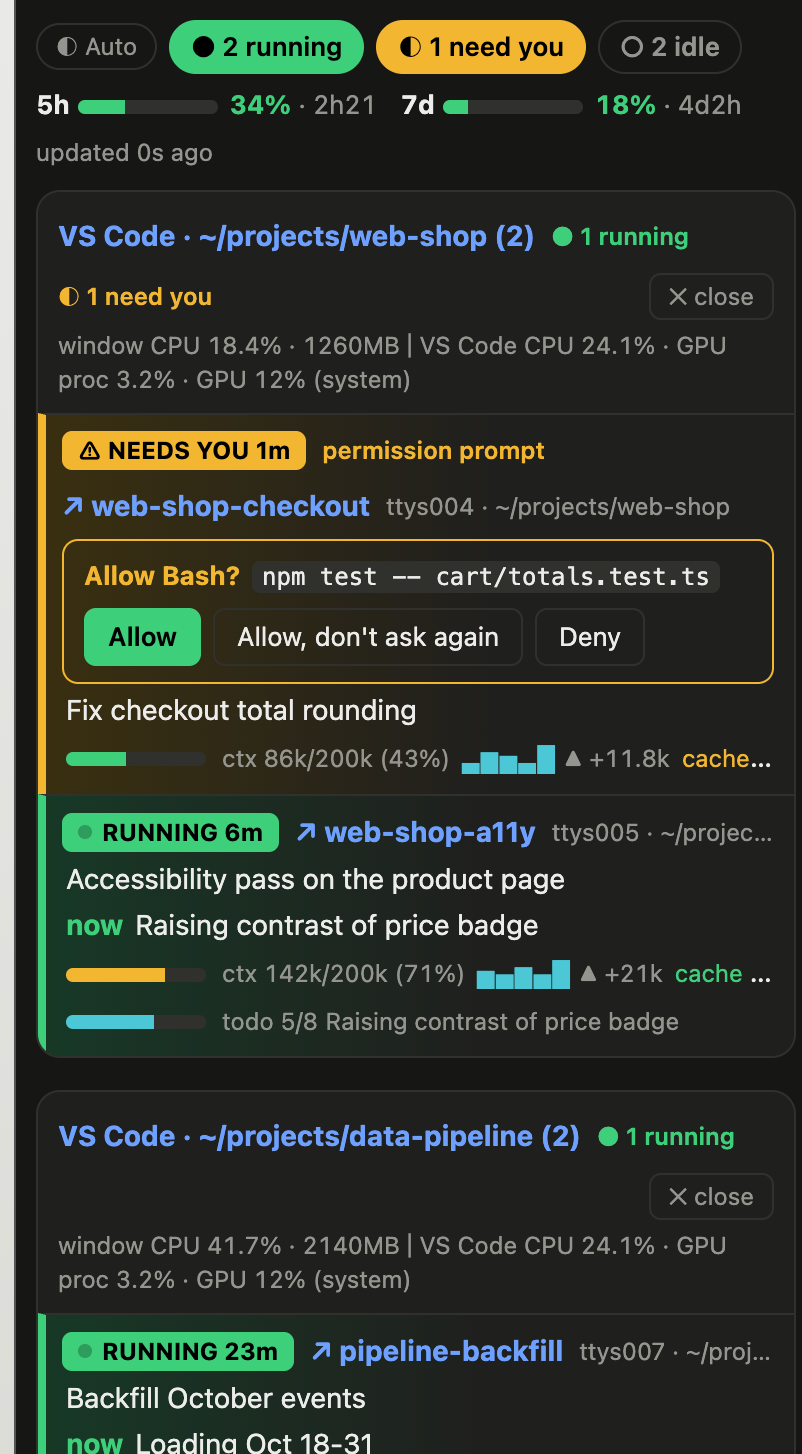
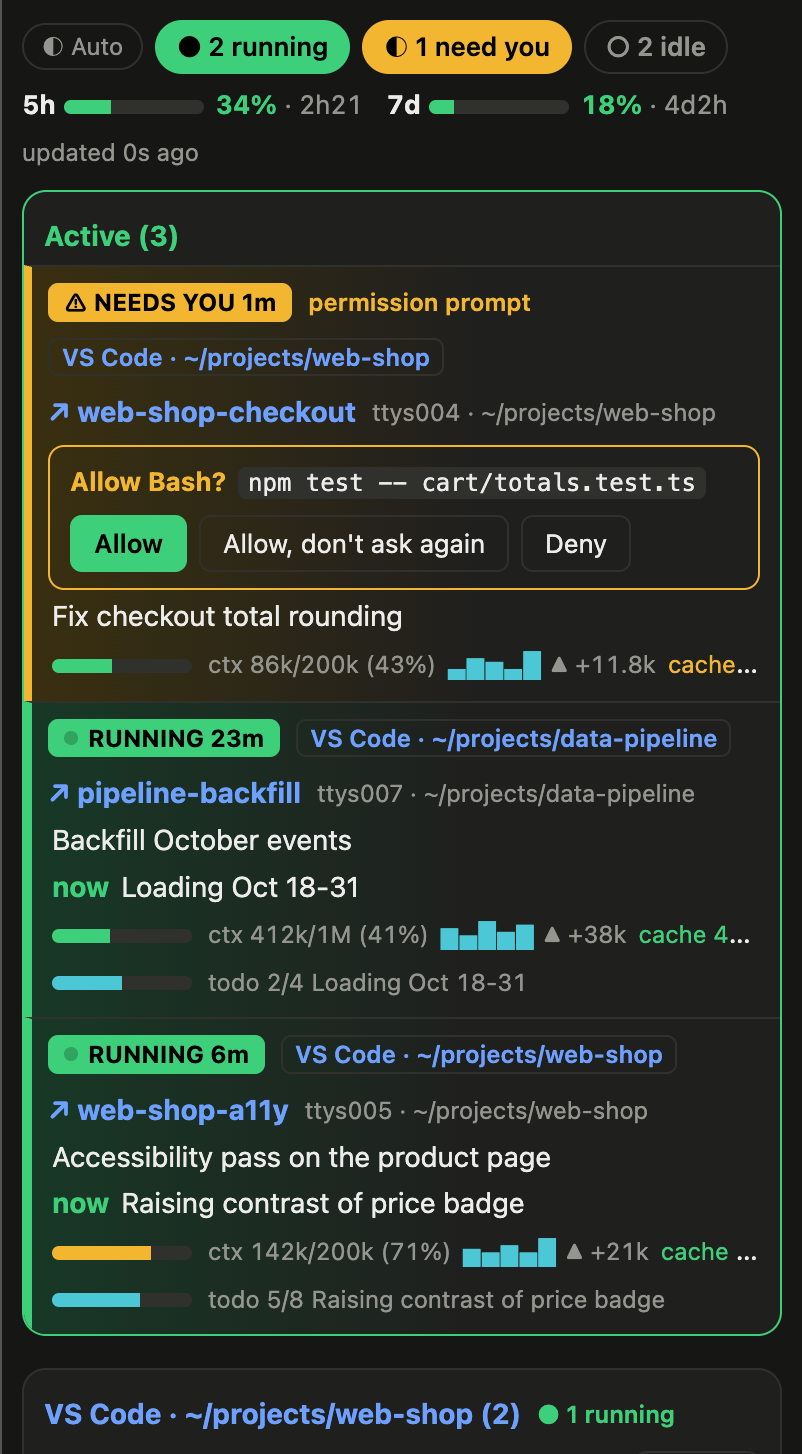
Pin running and waiting sessions in an Active section
The pane and the web page (and so the Chrome side panel) open with an
Active section: sessions that need you first, then running ones, longest
first, each tagged with its window. The window groups below keep their
CPU line and close button but list only idle sessions, with a note of how
many of theirs are pinned above. Screenshots and READMEs updated.

diff --git a/session-progress/hooks/register.tsx b/session-progress/hooks/register.tsx
@@ -143,6 +143,10 @@ function groupRows(list: SessionRow[]): Group[] {
 }
 
 const STATUS_RANK: Record<string, number> = { waiting: 0, busy: 1, idle: 2 }
+const isActive = (r: SessionRow) => r.status === 'busy' || r.status === 'waiting'
+// Where a session lives, for its row in the Active section.
+const whereOf = (r: SessionRow) =>
+  r.app === 'vscode' ? `VS Code · ${r.windowLabel ?? r.window}` : r.app === 'Apple_Terminal' ? 'Terminal' : r.app === 'other' ? 'terminal' : r.app
 
 // The arguments the web view shows for a call that waits on the person; never file contents.
 const PENDING_KEYS = ['command', 'file_path', 'url', 'pattern', 'query', 'prompt', 'skill', 'description', 'questions', 'plan']
@@ -224,6 +228,98 @@ export const register: Register = on => {
         <Text dimColor>{label}</Text>
       )
     const vscodeCount = list.filter(r => r.app === 'vscode').length
+    // Running and waiting sessions are pinned in one Active section on top (waiting
+    // first, longest first); the window groups below keep only the idle ones.
+    const active = list.filter(isActive).sort((a, b) => (STATUS_RANK[a.status] ?? 3) - (STATUS_RANK[b.status] ?? 3) || a.statusSince - b.statusSince)
+    const sessionRow = (r: SessionRow, where?: string) => {
+    const gutter = GUTTER[r.status]
+    const pad = gutter ? <Text color={gutter}>{'  ┃ '}</Text> : '    '
+    const active = r.status === 'busy' || r.status === 'waiting'
+    return (
+    <Box key={r.sessionId} flexDirection="column">
+      <Box key={`head-${r.sessionId}`} flexDirection="row">
+        <Text>
+          {gutter ? <Text color={gutter}>{'  ┃ '}</Text> : '  '}
+          {BADGE[r.status] ? (
+            <Text backgroundColor={gutter} color="black" bold>
+              {' '}{BADGE[r.status]} {span(now, r.statusSince)}{' '}
+            </Text>
+          ) : (
+            <Text color={STATUS_COLOR[r.status] ?? 'white'} dimColor>
+              {STATUS_ICON[r.status] ?? '?'} {r.status} {span(now, r.statusSince)}
+            </Text>
+          )}
+          {r.waitingFor ? <Text color="yellow" bold> {r.waitingFor}</Text> : ''}{' '}
+        </Text>
+        {r.app === 'vscode' ? (
+          <Button key={`open-${r.sessionId}`} plain label={`↗ ${r.name}`} dimColor={!active} hover={{ underline: true }} onPress={() => void vscodeAction($, 'focus', r)} />
+        ) : (
+          <Text bold={active} dimColor={!active}>{r.name}</Text>
+        )}
+        {where ? <Text color="blue"> [{where}]</Text> : ''}
+        <Text wrap="truncate" dimColor> {r.tty} · {r.cwd}</Text>
+      </Box>
+      {r.title && <Text wrap="truncate" dimColor={!active}>{pad}{r.title}</Text>}
+      {r.status === 'busy' && (r.todoActive || r.lastTool) && (
+        <Text wrap="truncate">
+          {pad}
+          <Text color="green" bold>now </Text>
+          {r.todoActive ?? r.lastTool}
+        </Text>
+      )}
+      {r.ctxTokens !== undefined && r.ctxMax !== undefined && (
+        <Text wrap="truncate">
+          {pad}
+          <Text color={ctxColor(r.ctxTokens / r.ctxMax)}>ctx {bar(Math.min(r.ctxTokens, r.ctxMax), r.ctxMax)}</Text>
+          <Text dimColor>
+            {' '}
+            {tokens(r.ctxTokens)}/{tokens(r.ctxMax)} ({Math.round((r.ctxTokens / r.ctxMax) * 100)}%)
+          </Text>
+          {r.ctxGrowth && r.ctxGrowth.length > 0 ? (
+            <Text>
+              {' '}
+              <Text color="cyan">{spark(r.ctxGrowth)}</Text>
+              <Text dimColor> {signed(r.ctxGrowth[r.ctxGrowth.length - 1] ?? 0)}</Text>
+            </Text>
+          ) : (
+            ''
+          )}
+          {r.cacheExpiresAt !== undefined ? (
+            r.cacheExpiresAt > now ? (
+              <Text>
+                <Text dimColor> │ </Text>
+                <Text color={r.cacheExpiresAt - now < 5 * 60_000 ? 'yellow' : 'green'}>cache {untilText(r.cacheExpiresAt - now)}</Text>
+              </Text>
+            ) : (
+              <Text dimColor> │ cache expired</Text>
+            )
+          ) : (
+            ''
+          )}
+        </Text>
+      )}
+      {r.todosTotal !== undefined && r.todosTotal > 0 && (
+        <Text wrap="truncate">
+          {pad}
+          <Text color="cyan">
+            {bar(r.todosDone ?? 0, r.todosTotal)} {r.todosDone}/{r.todosTotal}
+          </Text>
+          {r.todoActive ? <Text dimColor> {r.todoActive}</Text> : ''}
+        </Text>
+      )}
+      {r.lastPrompt && (
+        <Text wrap="truncate" dimColor>
+          {pad}› {r.lastPrompt}
+        </Text>
+      )}
+      {r.lastReply && (
+        <Text wrap="truncate" dimColor>
+          {pad}‹ {r.lastReply}
+        </Text>
+      )}
+    </Box>
+    )
+    }
 
     return (
       <Box flexDirection="column">
@@ -253,6 +349,12 @@ export const register: Register = on => {
           {vscodeCount} VS Code terminals running claude · updated {at ? ago(now, at) : '—'} ago
         </Text>
         {list.length === 0 && <Text dimColor>No running sessions found.</Text>}
+        {active.length > 0 && (
+          <Box key="active" flexDirection="column" marginTop={1}>
+            <Text bold color="green">▌Active ({active.length})</Text>
+            {active.map(r => sessionRow(r, whereOf(r)))}
+          </Box>
+        )}
         {groups.map(g => (
           <Box key={g.key} flexDirection="column" marginTop={1}>
             <Box key={`group-${g.key}`} flexDirection="row">
@@ -278,94 +380,10 @@ export const register: Register = on => {
                 {g.stats.gpuProcCpu}%{g.stats.gpuUtil !== undefined ? ` · GPU ${g.stats.gpuUtil}% (system)` : ''}
               </Text>
             )}
-            {g.rows.map(r => {
-              const gutter = GUTTER[r.status]
-              const pad = gutter ? <Text color={gutter}>{'  ┃ '}</Text> : '    '
-              const active = r.status === 'busy' || r.status === 'waiting'
-              return (
-              <Box key={r.sessionId} flexDirection="column">
-                <Box key={`head-${r.sessionId}`} flexDirection="row">
-                  <Text>
-                    {gutter ? <Text color={gutter}>{'  ┃ '}</Text> : '  '}
-                    {BADGE[r.status] ? (
-                      <Text backgroundColor={gutter} color="black" bold>
-                        {' '}{BADGE[r.status]} {span(now, r.statusSince)}{' '}
-                      </Text>
-                    ) : (
-                      <Text color={STATUS_COLOR[r.status] ?? 'white'} dimColor>
-                        {STATUS_ICON[r.status] ?? '?'} {r.status} {span(now, r.statusSince)}
-                      </Text>
-                    )}
-                    {r.waitingFor ? <Text color="yellow" bold> {r.waitingFor}</Text> : ''}{' '}
-                  </Text>
-                  {r.app === 'vscode' ? (
-                    <Button key={`open-${r.sessionId}`} plain label={`↗ ${r.name}`} dimColor={!active} hover={{ underline: true }} onPress={() => void vscodeAction($, 'focus', r)} />
-                  ) : (
-                    <Text bold={active} dimColor={!active}>{r.name}</Text>
-                  )}
-                  <Text wrap="truncate" dimColor> {r.tty} · {r.cwd}</Text>
-                </Box>
-                {r.title && <Text wrap="truncate" dimColor={!active}>{pad}{r.title}</Text>}
-                {r.status === 'busy' && (r.todoActive || r.lastTool) && (
-                  <Text wrap="truncate">
-                    {pad}
-                    <Text color="green" bold>now </Text>
-                    {r.todoActive ?? r.lastTool}
-                  </Text>
-                )}
-                {r.ctxTokens !== undefined && r.ctxMax !== undefined && (
-                  <Text wrap="truncate">
-                    {pad}
-                    <Text color={ctxColor(r.ctxTokens / r.ctxMax)}>ctx {bar(Math.min(r.ctxTokens, r.ctxMax), r.ctxMax)}</Text>
-                    <Text dimColor>
-                      {' '}
-                      {tokens(r.ctxTokens)}/{tokens(r.ctxMax)} ({Math.round((r.ctxTokens / r.ctxMax) * 100)}%)
-                    </Text>
-                    {r.ctxGrowth && r.ctxGrowth.length > 0 ? (
-                      <Text>
-                        {' '}
-                        <Text color="cyan">{spark(r.ctxGrowth)}</Text>
-                        <Text dimColor> {signed(r.ctxGrowth[r.ctxGrowth.length - 1] ?? 0)}</Text>
-                      </Text>
-                    ) : (
-                      ''
-                    )}
-                    {r.cacheExpiresAt !== undefined ? (
-                      r.cacheExpiresAt > now ? (
-                        <Text>
-                          <Text dimColor> │ </Text>
-                          <Text color={r.cacheExpiresAt - now < 5 * 60_000 ? 'yellow' : 'green'}>cache {untilText(r.cacheExpiresAt - now)}</Text>
-                        </Text>
-                      ) : (
-                        <Text dimColor> │ cache expired</Text>
-                      )
-                    ) : (
-                      ''
-                    )}
-                  </Text>
-                )}
-                {r.todosTotal !== undefined && r.todosTotal > 0 && (
-                  <Text wrap="truncate">
-                    {pad}
-                    <Text color="cyan">
-                      {bar(r.todosDone ?? 0, r.todosTotal)} {r.todosDone}/{r.todosTotal}
-                    </Text>
-                    {r.todoActive ? <Text dimColor> {r.todoActive}</Text> : ''}
-                  </Text>
-                )}
-                {r.lastPrompt && (
-                  <Text wrap="truncate" dimColor>
-                    {pad}› {r.lastPrompt}
-                  </Text>
-                )}
-                {r.lastReply && (
-                  <Text wrap="truncate" dimColor>
-                    {pad}‹ {r.lastReply}
-                  </Text>
-                )}
-              </Box>
-              )
-            })}
+            {g.rows.filter(r => !isActive(r)).map(r => sessionRow(r))}
+            {g.rows.some(isActive) && (
+              <Text dimColor>{'  '}↑ {g.rows.filter(isActive).length} in Active above</Text>
+            )}
           </Box>
         ))}
       </Box>

diff --git a/session-progress/web/index.html b/session-progress/web/index.html
@@ -51,6 +51,10 @@
   .ghead { display: flex; flex-wrap: wrap; align-items: center; gap: 8px; padding: 12px 14px 4px; }
   .gname { font-weight: 700; color: var(--blue); }
   .group.other .gname { color: var(--dim); }
+  .group.active { border-color: var(--run); }
+  .group.active .gname { color: var(--run); }
+  .where { font-size: 12px; font-weight: 600; color: var(--blue); border: 1px solid var(--line); border-radius: 5px; padding: 0 6px; white-space: nowrap; }
+  .pinned { border-top: 1px solid var(--line); padding: 7px 14px; font-size: 12px; color: var(--dim); }
   .gcount { font-size: 12px; font-weight: 600; }
   .gcount.run { color: var(--run); } .gcount.wait { color: var(--wait); }
   .close { margin-left: auto; font: inherit; font-size: 12px; background: none; border: 1px solid var(--line); color: var(--dim); border-radius: 6px; padding: 2px 9px; cursor: pointer; }
@@ -196,7 +200,11 @@ function askHtml(r) {
   return h + `</div>`
 }
 
-function rowHtml(r) {
+const isActive = r => r.status === 'busy' || r.status === 'waiting'
+// Where a session lives, for its row in the Active section.
+const whereOf = r => r.app === 'vscode' ? `VS Code · ${r.windowLabel ?? r.window}` : r.app === 'Apple_Terminal' ? 'Terminal' : r.app === 'other' ? 'terminal' : r.app
+
+function rowHtml(r, where) {
   const badge = r.status === 'busy' ? `<span class="badge busy">RUNNING ${span(r.statusSince)}</span>`
     : r.status === 'waiting' ? `<span class="badge waiting">⚠ NEEDS YOU ${span(r.statusSince)}</span>`
     : `<span class="badge idle">○ ${esc(r.status)} ${span(r.statusSince)}</span>`
@@ -205,6 +213,7 @@ function rowHtml(r) {
     : `<span class="name">${esc(r.name)}</span>`
   let html = `<div class="row ${esc(r.status)}"><div class="rhead">${badge}`
   if (r.waitingFor) html += `<span class="waitfor">${esc(r.waitingFor)}</span>`
+  if (where) html += `<span class="where">${esc(where)}</span>`
   html += `${name}<span class="meta">${esc(r.tty)} · ${esc(r.cwd)}</span></div>`
   if (r.status === 'waiting') html += askHtml(r)
   if (r.title) html += `<div class="line">${esc(r.title)}</div>`
@@ -246,7 +255,13 @@ function render() {
 
   const groups = groupRows(rows)
   if (!groups.length) { $('groups').innerHTML = `<div class="empty">No running sessions found.</div>`; return }
-  $('groups').innerHTML = groups.map(g => {
+  // Running and waiting sessions are pinned in one Active section on top (waiting
+  // first, longest first); the window groups below keep only the idle ones.
+  const active = rows.filter(isActive).sort((a, b) => (RANK[a.status] ?? 3) - (RANK[b.status] ?? 3) || a.statusSince - b.statusSince)
+  const activeHtml = active.length
+    ? `<section class="group active"><div class="ghead"><span class="gname">Active (${active.length})</span></div>${active.map(r => rowHtml(r, whereOf(r))).join('')}</section>`
+    : ''
+  $('groups').innerHTML = activeHtml + groups.map(g => {
     const s = g.rows.find(r => r.winCpu !== undefined)
     const run = count(g.rows, 'busy'), wait = count(g.rows, 'waiting')
     let h = `<section class="group ${g.key === 'other' ? 'other' : ''}"><div class="ghead"><span class="gname">${esc(g.label)} (${g.rows.length})</span>`
@@ -256,7 +271,9 @@ function render() {
     if (g.key !== 'other') h += `<button class="close ${armed === g.key ? 'armed' : ''}" data-close="${esc(g.key)}" title="${canClose ? 'Close this VS Code window' : RELOAD_HINT}">${!canClose ? '✕ close (reload window first)' : armed === g.key ? 'Press again to close' : '✕ close'}</button>`
     h += `</div>`
     if (s) h += `<div class="stats">${s.winSource === 'terminals' ? 'claude terminals' : 'window'} CPU ${s.winCpu}% · ${s.winMemMB}MB │ VS Code CPU ${s.appCpu}% · GPU proc ${s.gpuProcCpu}%${s.gpuUtil !== undefined ? ` · GPU ${s.gpuUtil}% (system)` : ''}</div>`
-    return h + g.rows.map(rowHtml).join('') + `</section>`
+    const pinned = g.rows.filter(isActive).length
+    return h + g.rows.filter(r => !isActive(r)).map(r => rowHtml(r)).join('')
+      + (pinned ? `<div class="pinned">↑ ${pinned} in Active above</div>` : '') + `</section>`
   }).join('')
 }
 

diff --git a/session-progress/hooks/progress.test.ts b/session-progress/hooks/progress.test.ts
@@ -184,3 +184,15 @@ test('a tool call is recorded for the web view before it runs', async ($, on) =>
   expect(body.tool).toBe('Bash')
   expect(body.input).toEqual({ command: 'rm -rf build', description: 'Clean' })
 })
+
+test('running and waiting sessions are pinned in an Active section, tagged with their window', async ($, on) => {
+  on('process.run', async () => ({ value: { exitCode: 0, stdout: JSON.stringify(FAKE), stderr: '', isStdoutTruncated: false, isStderrTruncated: false } }) as never)
+  on('ui.open', async () => ({ value: { isPlaced: true } }) as never)
+  await $.command.run({ command: 'sessions', args: '' } as never)
+  const ui = await $.ui.mount({ plugin: 'session-progress', surface: 'terminal', component: 'Pane', requestId: 'session-progress', props: {} as never })
+  expect(await ui.find({ text: /Active \(2\)/ })).toBeDefined()
+  expect(await ui.find({ text: /\[VS Code · ~\/web-shop\]/ })).toBeDefined()
+  expect(await ui.find({ text: /\[Terminal\]/ })).toBeDefined()
+  expect(await ui.find({ text: /↑ 1 in Active above/ })).toBeDefined()
+  await ui.unmount()
+})

diff --git a/README.en.md b/README.en.md
@@ -6,7 +6,7 @@ See, and act on, **every** Claude Code session on your Mac at once: which ones a
 
 This repo is a Claude Code plugin marketplace (`claude-session-hub`) holding one plugin: **session-progress**.
 
-![Claude Session Hub web page: sessions grouped by VS Code window, with a session waiting on a permission prompt at the top and its allow/deny buttons](docs/hub.jpg)
+![Claude Session Hub web page: the Active section on top holds a session waiting on a permission prompt, with its Allow/Deny buttons, and the running sessions](docs/hub.jpg)
 
 <img src="docs/side-panel.png" width="300" align="right" alt="Chrome side panel: the same view as a narrow column">
 
@@ -20,7 +20,7 @@ The screenshots use demo data.
 
 | | |
 |---|---|
-| **Overview** | All sessions grouped by VS Code window, with status badges: `▶ RUNNING`, `⚠ NEEDS YOU`, `○ idle 3h12m` |
+| **Overview** | Running and waiting sessions pinned in an Active section on top (waiting first, each tagged with its window); the rest grouped by VS Code window. Status badges: `▶ RUNNING`, `⚠ NEEDS YOU`, `○ idle 3h12m` |
 | **Context** | Usage bar (`245k/1M`), a sparkline of growth per prompt (`▂▇▅▃█ ▲ +10.1k`), time left on the prompt cache |
 | **Rate limits** | Your account's 5-hour and 7-day usage and when they reset |
 | **Resources** | CPU and memory per VS Code window, VS Code's GPU process, and system GPU utilisation |

diff --git a/README.md b/README.md
@@ -6,7 +6,7 @@
 
 這個 repo 本身是一個 Claude Code plugin marketplace（`claude-session-hub`），裡面有一個 plugin：**session-progress**。
 
-![Claude Session Hub 網頁：依 VS Code 視窗分組的 session，最上方是等待權限確認的 session 和Allow／Deny 按鈕](docs/hub.jpg)
+![Claude Session Hub 網頁：最上方的 Active 區是等待權限確認和執行中的 session，等待的那個有 Allow／Deny 按鈕](docs/hub.jpg)
 
 <img src="docs/side-panel.png" width="300" align="right" alt="Chrome 側邊欄：同樣的內容排成窄欄">
 
@@ -20,7 +20,7 @@
 
 | | |
 |---|---|
-| **總覽** | 依 VS Code 視窗分組列出所有 session，狀態徽章：`▶ RUNNING`、`⚠ NEEDS YOU`、`○ idle 3h12m` |
+| **總覽** | 執行中和等你回答的 session 置頂在「Active」區（等你回答的在最前，並標出所在視窗），其餘依 VS Code 視窗分組；狀態徽章：`▶ RUNNING`、`⚠ NEEDS YOU`、`○ idle 3h12m` |
 | **Context** | 用量條（`245k/1M`）、每次 prompt 的增量小圖（`▂▇▅▃█ ▲ +10.1k`）、prompt cache 剩餘時間 |
 | **用量限制** | 帳號的 5 小時和 7 天限制百分比、何時重置 |
 | **資源** | 每個 VS Code 視窗的 CPU 和記憶體，VS Code 的 GPU process 和系統 GPU 使用率 |
